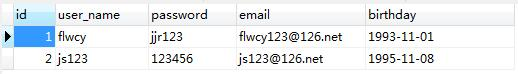
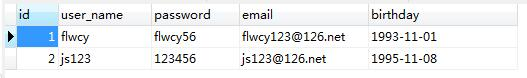
update about jdbc

diff --git a/JDBC/01_start_jdbc.md b/JDBC/01_start_jdbc.md
@@ -39,7 +39,7 @@ create table db_user(
 ```
 为了方便，先插入两条测试数据
 ```sql
-insert into db_user(id,user_name,`password`,email,birthday) values(1,"flwcy" ,"jjr123" ,"flwcy123@126.net" ,"1993-11-01" );
+insert into db_user(id,user_name,`password`,email,birthday) values(1,"flwcy" ,"flwcy56" ,"flwcy123@126.net" ,"1993-11-01" );
 insert into db_user(id,user_name,`password`,email,birthday) values(2,"js123" ,"123456" ,"js123@126.net" ,"1995-11-08" )
 ```
 ![测试数据](../img/jdbc/jdbc_start_02.jpg)
